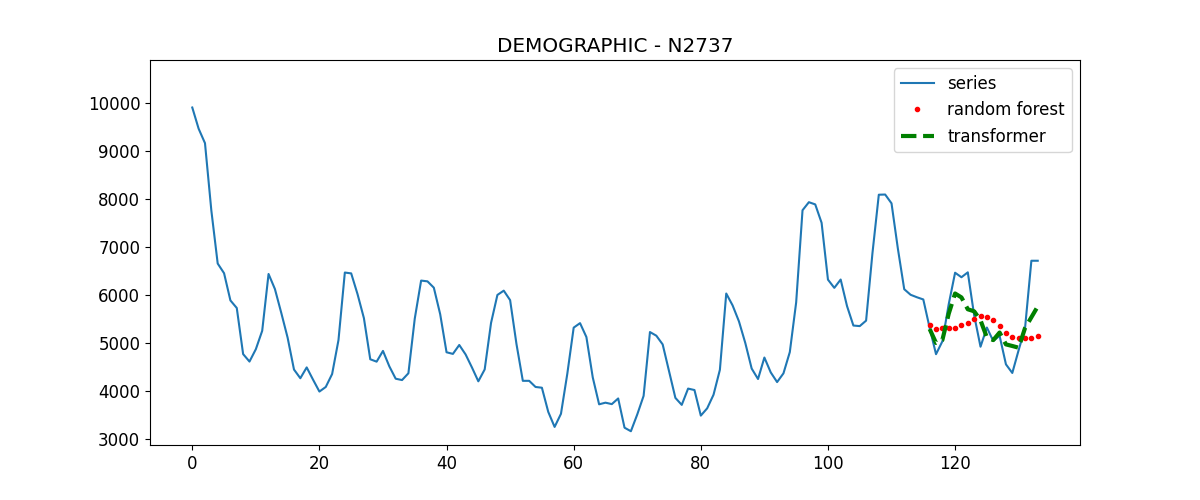
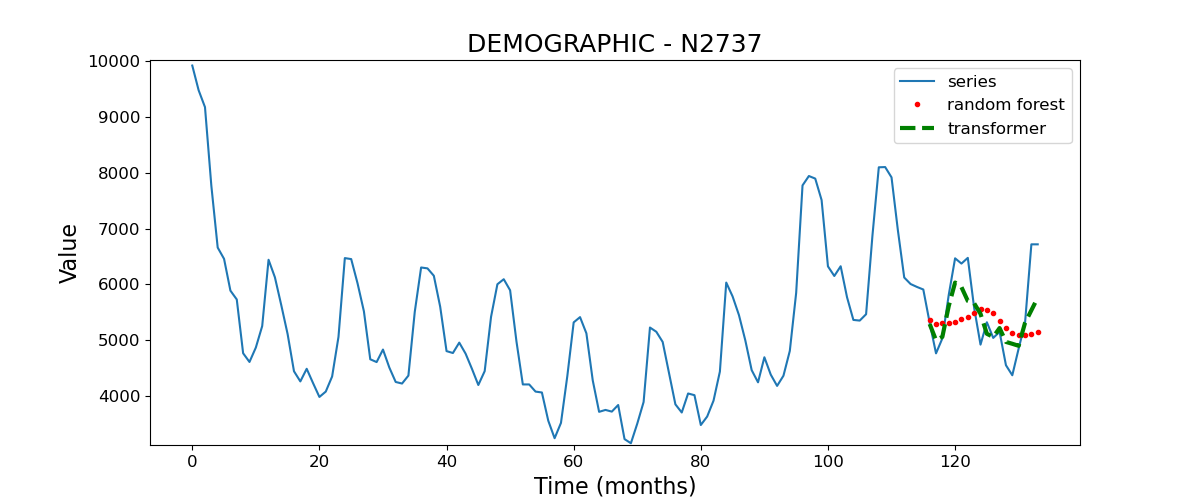
Figures 6/7

diff --git a/results/res_analysis.py b/results/res_analysis.py
@@ -118,7 +118,9 @@ def someplots():
             plt.plot(range(len(arrdata) - 18, len(arrdata)),rfdata,".",label="random forest",color="r",linewidth=3)
             plt.plot(range(len(arrdata) - 18, len(arrdata)),trdata,"--",label="transformer",color="g",linewidth=3)
             plt.legend()
-            plt.title(f"{categ} - N{id}")
+            plt.title(f"{categ} - N{id}", fontsize=18)
+            plt.xlabel("Time (months)", fontsize=16)
+            plt.ylabel("Value", fontsize=16)
             plt.ylim(min(arrdata)/1.01, max(arrdata)*1.01)
             plt.show()
    return
